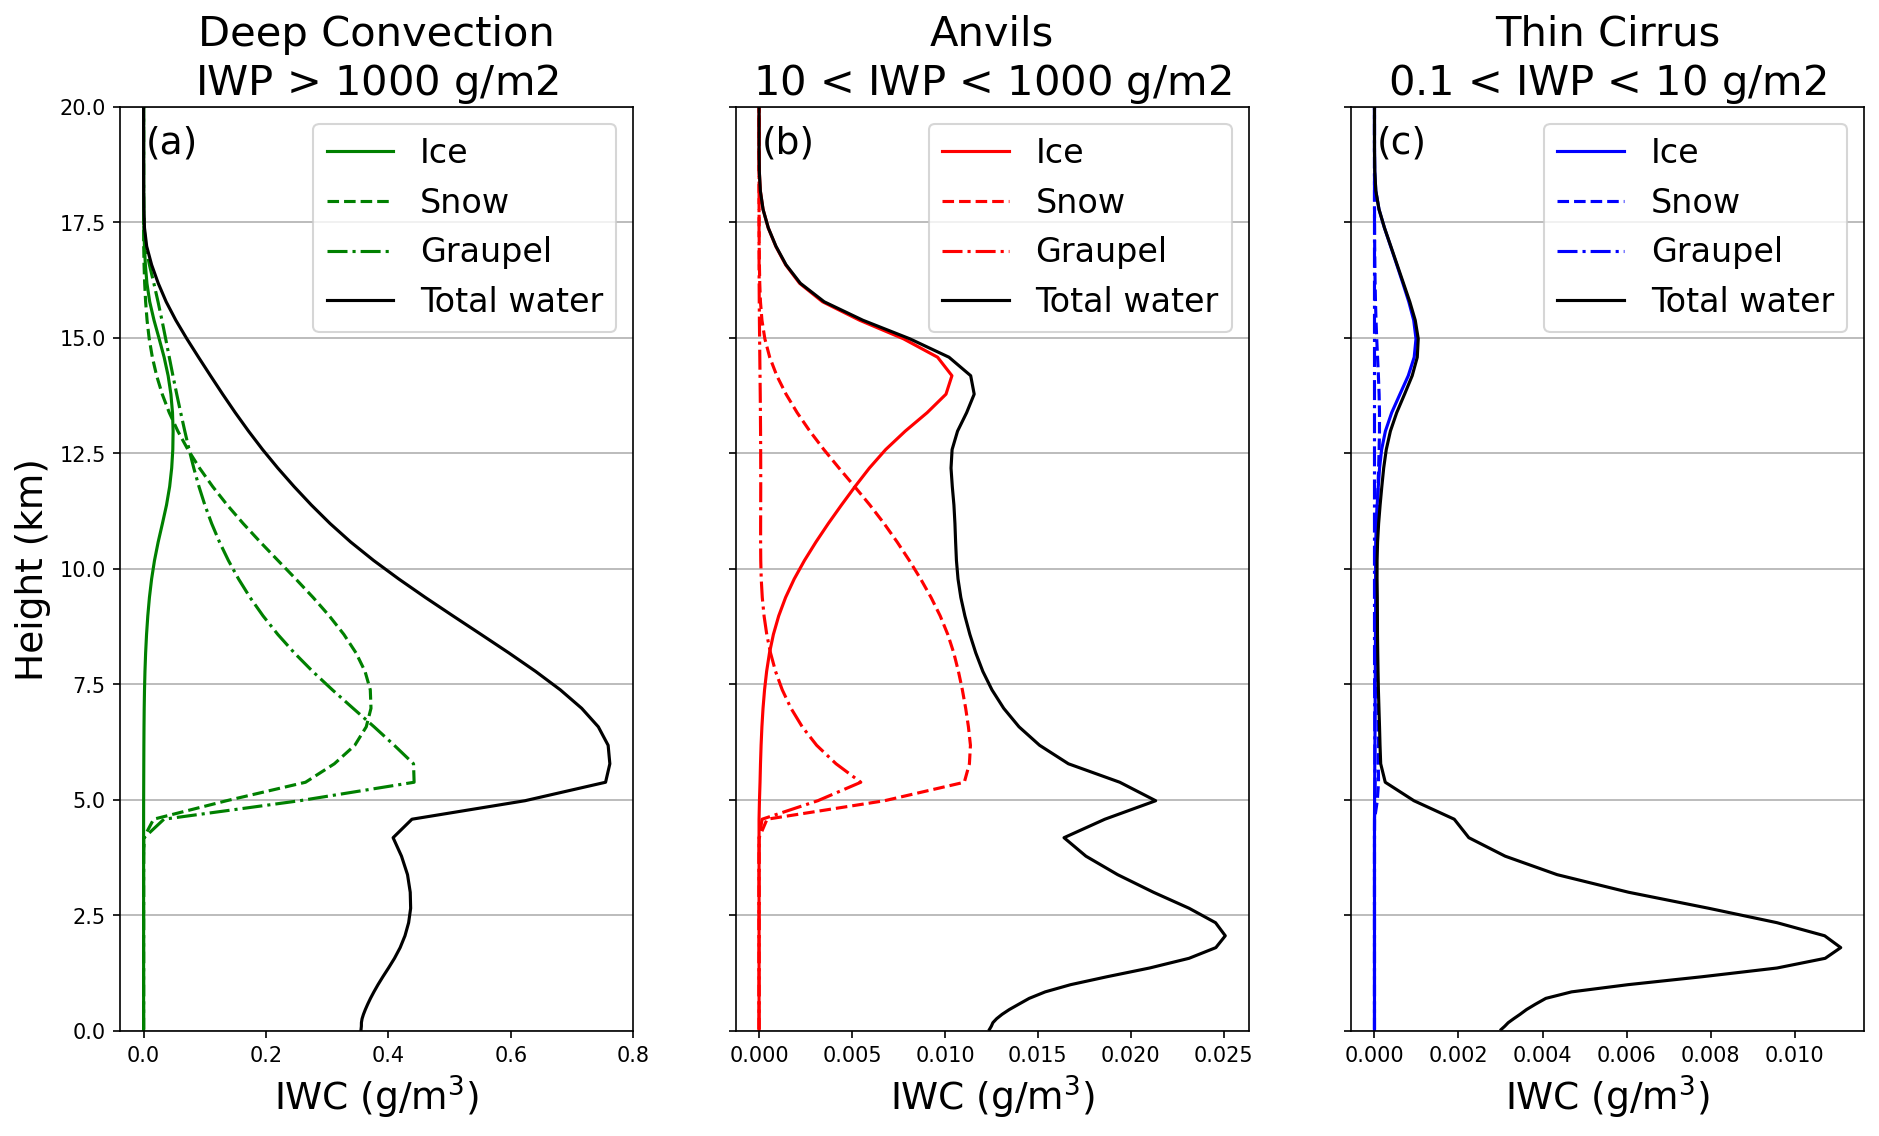
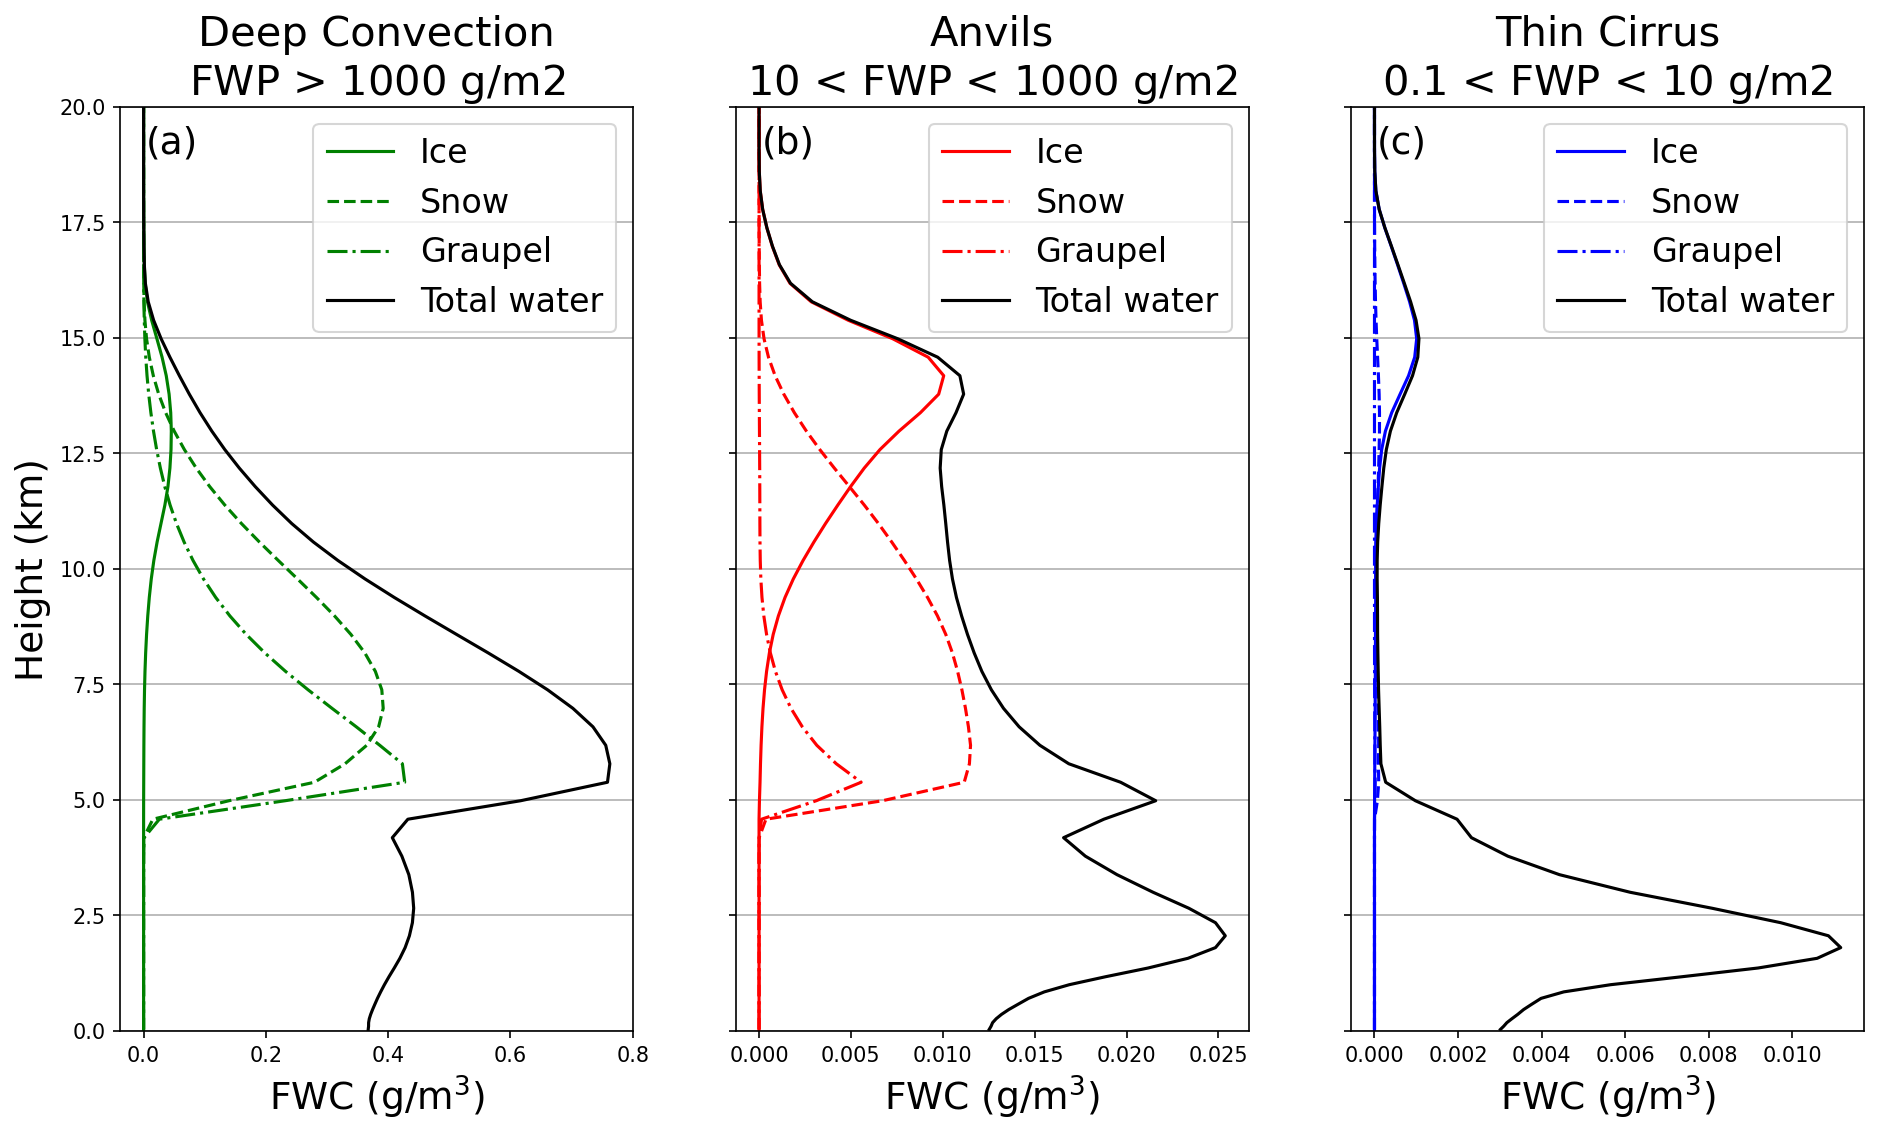
minor updates

diff --git a/python_scripts/fig11_iwp_all_regions.py b/python_scripts/fig11_iwp_all_regions.py
@@ -1,7 +1,7 @@
 #!/usr/bin/env python
-""" iwp_figsn.py
+""" fig11_iwp_all_regions.py
     Author: Sami Turbeville
-    Updated: 04 Aug 2020
+    Updated: 18 Feb 2021
     
     This script reads in the frozen water path for FV3,
     SAM, GEOS, ICON and FV3. It then plots the histograms
@@ -11,9 +11,9 @@
 import numpy as np
 import xarray as xr
 from utility import load, util
+import pandas as pd
 import utility.analysis_parameters as ap
 import matplotlib.pyplot as plt
-import pandas as pd
 
 # load all iwp 
 hydro_type = "frozen"
@@ -119,19 +119,19 @@ lower_bin_ind = np.argmin(abs(1-bins))
 upper_bin_ind = np.argmin(abs(3-bins))
 # sum count in each category and divide by total
 
-ds = pd.read_csv('../plots/cat_freq_allRegions.csv',index_col=0)
-ntwp = pd.read_csv('../plots/NICAM_TWP_cat_alb_olr_ttl_cs.csv',index_col=0)
-ftwp = pd.read_csv('../plots/FV3_TWP_cat_alb_olr_ttl_cs.csv',index_col=0)
-itwp = pd.read_csv('../plots/ICON_TWP_cat_alb_olr_ttl_cs.csv',index_col=0)
-stwp = pd.read_csv('../plots/SAM_TWP_cat_alb_olr_ttl_cs.csv',index_col=0)
-nshl = pd.read_csv('../plots/NICAM_SHL_cat_alb_olr_ttl_cs.csv',index_col=0)
-fshl = pd.read_csv('../plots/FV3_SHL_cat_alb_olr_ttl_cs.csv',index_col=0)
-ishl = pd.read_csv('../plots/ICON_SHL_cat_alb_olr_ttl_cs.csv',index_col=0)
-sshl = pd.read_csv('../plots/SAM_SHL_cat_alb_olr_ttl_cs.csv',index_col=0)
-nnau = pd.read_csv('../plots/NICAM_NAU_cat_alb_olr_ttl_cs.csv',index_col=0)
-fnau = pd.read_csv('../plots/FV3_NAU_cat_alb_olr_ttl_cs.csv',index_col=0)
-inau = pd.read_csv('../plots/ICON_NAU_cat_alb_olr_ttl_cs.csv',index_col=0)
-snau = pd.read_csv('../plots/SAM_NAU_cat_alb_olr_ttl_cs.csv',index_col=0)
+# ds = pd.read_csv('../tables/cat_freq_allRegions.csv',index_col=0)
+ntwp = pd.read_csv('../tables/NICAM_TWP_cat_alb_olr_ttl_cs.csv',index_col=0)
+ftwp = pd.read_csv('../tables/FV3_TWP_cat_alb_olr_ttl_cs.csv',index_col=0)
+itwp = pd.read_csv('../tables/ICON_TWP_cat_alb_olr_ttl_cs.csv',index_col=0)
+stwp = pd.read_csv('../tables/SAM_TWP_cat_alb_olr_ttl_cs.csv',index_col=0)
+nshl = pd.read_csv('../tables/NICAM_SHL_cat_alb_olr_ttl_cs.csv',index_col=0)
+fshl = pd.read_csv('../tables/FV3_SHL_cat_alb_olr_ttl_cs.csv',index_col=0)
+ishl = pd.read_csv('../tables/ICON_SHL_cat_alb_olr_ttl_cs.csv',index_col=0)
+sshl = pd.read_csv('../tables/SAM_SHL_cat_alb_olr_ttl_cs.csv',index_col=0)
+nnau = pd.read_csv('../tables/NICAM_NAU_cat_alb_olr_ttl_cs.csv',index_col=0)
+fnau = pd.read_csv('../tables/FV3_NAU_cat_alb_olr_ttl_cs.csv',index_col=0)
+inau = pd.read_csv('../tables/ICON_NAU_cat_alb_olr_ttl_cs.csv',index_col=0)
+snau = pd.read_csv('../tables/SAM_NAU_cat_alb_olr_ttl_cs.csv',index_col=0)
 
 print("normalize:")
 # normalize
@@ -295,10 +295,10 @@ sax.annotate(str(np.around(sshl.catfreq.CAT3)).split(".")[0]+"%", xy=(-0.1,0.068
 sax.annotate(str(np.around(sshl.catfreq.CS)).split(".")[0]+"%", xy=(-1.6,0.068), xycoords="data", fontsize=17, color=color0)
              
              
-cax.annotate(str(ds.DARDAR_NAU.cat1_freq)+"%", xy=(3.1,0.052), xycoords="data", fontsize=17, color=color1)
-cax.annotate(str(ds.DARDAR_NAU.cat2_freq)+"%", xy=(1.7,0.052), xycoords="data", fontsize=17, color=color2)
-cax.annotate(str(ds.DARDAR_NAU.cat3_freq)+"%", xy=(-0.1,0.052), xycoords="data", fontsize=17, color=color3)
-cax.annotate(str(ds.DARDAR_NAU.cs_freq)+"%", xy=(-1.6,0.052), xycoords="data", fontsize=17, color=color0)
+cax.annotate("9%", xy=(3.1,0.052), xycoords="data", fontsize=17, color=color1)
+cax.annotate("42%", xy=(1.7,0.052), xycoords="data", fontsize=17, color=color2)
+cax.annotate("27%", xy=(-0.1,0.052), xycoords="data", fontsize=17, color=color3)
+cax.annotate("22%", xy=(-1.6,0.052), xycoords="data", fontsize=17, color=color0)
 nax.annotate(str(np.around(nnau.catfreq.CAT1)).split(".")[0]+"%", xy=(3.1,0.052), xycoords="data", fontsize=17, color=color1)
 nax.annotate(str(np.around(nnau.catfreq.CAT2)).split(".")[0]+"%", xy=(1.7,0.052), xycoords="data", fontsize=17, color=color2)
 nax.annotate(str(np.around(nnau.catfreq.CAT3)).split(".")[0]+"%", xy=(-0.1,0.052), xycoords="data", fontsize=17, color=color3)

diff --git a/python_scripts/fig02_nicam_iwc_cat_profiles.py b/python_scripts/fig02_nicam_iwc_cat_profiles.py
@@ -15,26 +15,26 @@ MODEL = "NICAM"
 iwp = load.get_iwp(MODEL, REGION).values[11::12]
 # load one at a time to get category mean
 print("... categorize ice ...")
-iwc = xr.open_dataarray(ap.NICAM+"NICAM_iwc_TWP.nc")
+iwc = xr.open_dataarray(ap.NICAM+"NICAM_iwc_TWP.nc")[16:]
 print(iwp.shape, iwc.shape)
 iwc1 = iwc.where(iwp>=1).mean(axis=(0,2,3))
 iwc2 = iwc.where((iwp<1)&(iwp>=1e-2)).mean(axis=(0,2,3))
 iwc3 = iwc.where((iwp<1e-2)&(iwp>=1e-4)).mean(axis=(0,2,3))
 del iwc
 print("... categorize snow ...")
-swc = xr.open_dataarray(ap.NICAM+"NICAM_swc_TWP.nc") 
+swc = xr.open_dataarray(ap.NICAM+"NICAM_swc_TWP.nc")[16:]
 swc1 = swc.where(iwp>=1).mean(axis=(0,2,3))
 swc2 = swc.where((iwp<1)&(iwp>=1e-2)).mean(axis=(0,2,3))
 swc3 = swc.where((iwp<1e-2)&(iwp>=1e-4)).mean(axis=(0,2,3))
 del swc
 print("... categorize graupel ...")
-gwc = xr.open_dataarray(ap.NICAM+"NICAM_gwc_TWP.nc") 
+gwc = xr.open_dataarray(ap.NICAM+"NICAM_gwc_TWP.nc")[16:]
 gwc1 = gwc.where(iwp>=1).mean(axis=(0,2,3))
 gwc2 = gwc.where((iwp<1)&(iwp>=1e-2)).mean(axis=(0,2,3))
 gwc3 = gwc.where((iwp<1e-2)&(iwp>=1e-4)).mean(axis=(0,2,3))
 del gwc
 print("... categorize total water content ...")
-twc = xr.open_dataarray(ap.NICAM+"NICAM_twc_TWP.nc") 
+twc = xr.open_dataarray(ap.NICAM+"NICAM_twc_TWP.nc")[16:]
 twc1 = twc.where(iwp>=1).mean(axis=(0,2,3))
 twc2 = twc.where((iwp<1)&(iwp>=1e-2)).mean(axis=(0,2,3))
 twc3 = twc.where((iwp<1e-2)&(iwp>=1e-4)).mean(axis=(0,2,3))
@@ -70,9 +70,9 @@ ax3.plot([0,0], [0,0], 'b', label="Ice")
 ax3.plot([0,0], [0,0], 'b--', label="Snow")
 ax3.plot([0,0], [0,0], 'b-.', label="Graupel")
 ax3.plot([0,0], [0,0], 'k', label="Total water")
-ax1.set_xlabel("IWC (g/m$^3$)", fontsize=fs-2)
-ax2.set_xlabel("IWC (g/m$^3$)", fontsize=fs-2)
-ax3.set_xlabel("IWC (g/m$^3$)", fontsize=fs-2)
+ax1.set_xlabel("FWC (g/m$^3$)", fontsize=fs-2)
+ax2.set_xlabel("FWC (g/m$^3$)", fontsize=fs-2)
+ax3.set_xlabel("FWC (g/m$^3$)", fontsize=fs-2)
 ax1.set_ylabel("Height (km)", fontsize=fs-2)
 ax1.set_ylim([0,20])
 ax2.set_ylim([0,20])
@@ -83,9 +83,9 @@ ax3.legend(loc=1, fontsize=fs-4)
 ax1.grid(axis='y')
 ax2.grid(axis='y')
 ax3.grid(axis='y')
-ax1.set_title("Deep Convection\nIWP > 1000 g/m$2$", fontsize=fs)
-ax2.set_title("Anvils\n10 < IWP < 1000 g/m$2$", fontsize=fs)
-ax3.set_title("Thin Cirrus\n0.1 < IWP < 10 g/m$2$", fontsize=fs)
+ax1.set_title("Deep Convection\nFWP > 1000 g/m$2$", fontsize=fs)
+ax2.set_title("Anvils\n10 < FWP < 1000 g/m$2$", fontsize=fs)
+ax3.set_title("Thin Cirrus\n0.1 < FWP < 10 g/m$2$", fontsize=fs)
 
 ax1.annotate("(a)", xy=(0.05,0.95), xycoords="axes fraction", fontsize=fs-2)
 ax2.annotate("(b)", xy=(0.05,0.95), xycoords="axes fraction", fontsize=fs-2)

diff --git a/python_scripts/fig04_study_domain_initialSSTs.py b/python_scripts/fig04_study_domain_initialSSTs.py
@@ -1,5 +1,5 @@
 #!/usr/bin/env python
-""" fig05_study_domain_initialSSTs.py
+""" fig04_study_domain_initialSSTs.py
     author: Sami Turbeville
     date modified: 16 Feb 2021
     
@@ -39,6 +39,6 @@ ax.set_ylabel('Latitude')
 cbar = plt.colorbar(cs, shrink=0.8)
 cbar.set_label('Temperature (K)')
 ax.set_title('Initial Sea Surface Temperature for DYAMOND')
-plt.savefig('../plots/fig05_study_domians.png',dpi=200, bbox_inches="tight")
-print("saved as ../plots/fig05_study_domians.png")
+plt.savefig('../plots/fig04_study_domians.png',dpi=200, bbox_inches="tight")
+print("saved as ../plots/fig04_study_domians.png")
 plt.close()

diff --git a/python_scripts/fig05_model_biases_twp.py b/python_scripts/fig05_model_biases_twp.py
@@ -227,6 +227,6 @@ axz.annotate("(a)", xy=(0.71, 19), xycoords="data")
 ax0.annotate("(b)", xy=(256, 53), xycoords="data")
 ax1.annotate("(c)", xy=(256, 122), xycoords="data")
 
-plt.savefig("../plots/fig04_%s_model_biases.png"%REGION,dpi=150,bbox_inches="tight")
-print("... saved to ../plots/fig04_%s_model_biases.png"%REGION)
+plt.savefig("../plots/fig05_%s_model_biases.png"%REGION,dpi=150,bbox_inches="tight")
+print("... saved to ../plots/fig05_%s_model_biases.png"%REGION)
 plt.close()

diff --git a/python_scripts/fig09_regional_comp_vert_cld_frac.py b/python_scripts/fig09_regional_comp_vert_cld_frac.py
@@ -1,4 +1,4 @@
 #!/usr/bin/env python
-import vert_cld_frac
+from utility import vert_cld_frac
 
 vert_cld_frac.plot_shl_twp_nau_cld_frac(savename="../plots/fig09_regional_comp_vert_cld_frac.png")
